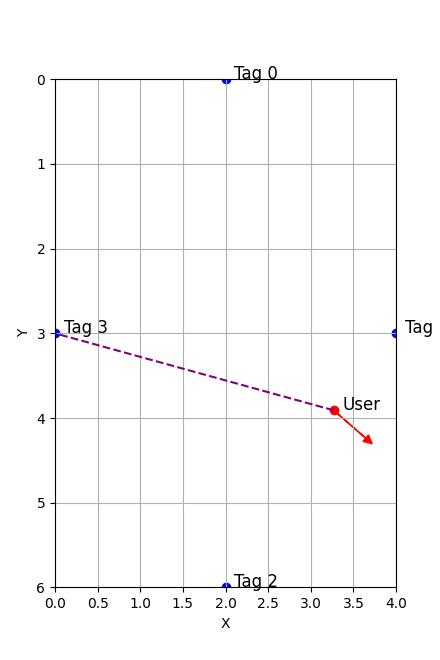
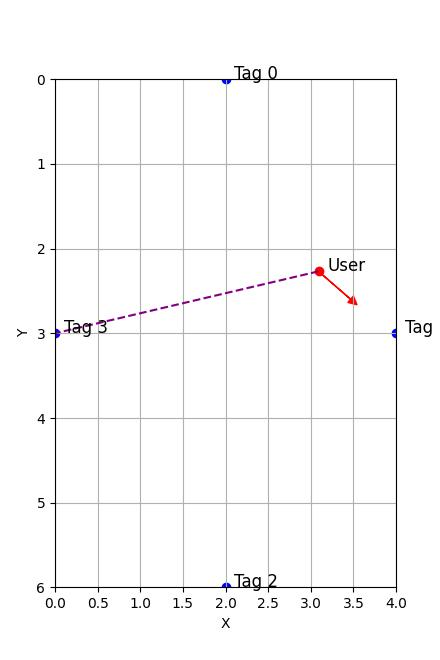
worked from all directions

diff --git a/src/calculate_pose_pnp.py b/src/calculate_pose_pnp.py
@@ -94,9 +94,10 @@ def calculate_pose(apriltag_data, tag_id, detected_tag_info, camera_matrix, dist
             tag_real_x, tag_real_y, tag_real_z, tag_real_facing_angle = tag_real_position
 
             # Calculate the camera's position and yaw
-            camera_x = tag_real_x + distance * np.sin(np.deg2rad(pitch))
-            camera_y = tag_real_y + distance * np.cos(np.deg2rad(pitch))
             camera_yaw = tag_real_facing_angle - 180 - pitch - horizontal_angle_deg
+            camera_x = tag_real_x + distance * (np.sin(np.deg2rad(tag_real_facing_angle)) * np.sin(np.deg2rad(pitch)) + np.cos(np.deg2rad(tag_real_facing_angle)) * np.cos(np.deg2rad(pitch)))
+            camera_y = tag_real_y + distance * (np.sin(np.deg2rad(tag_real_facing_angle)) * np.cos(np.deg2rad(pitch)) - np.cos(np.deg2rad(tag_real_facing_angle)) * np.sin(np.deg2rad(pitch)))
+
             print("======================================")
             print(f"Camera Position: ({camera_x:.2f}, {camera_y:.2f})")
             print(f"Camera Angle: {camera_yaw:.2f} degrees")
